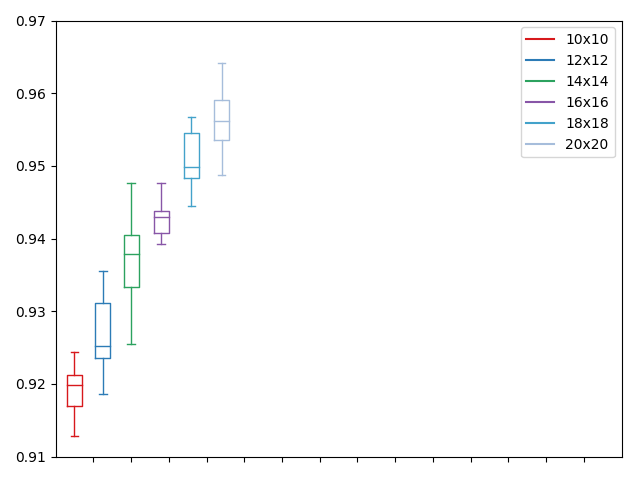
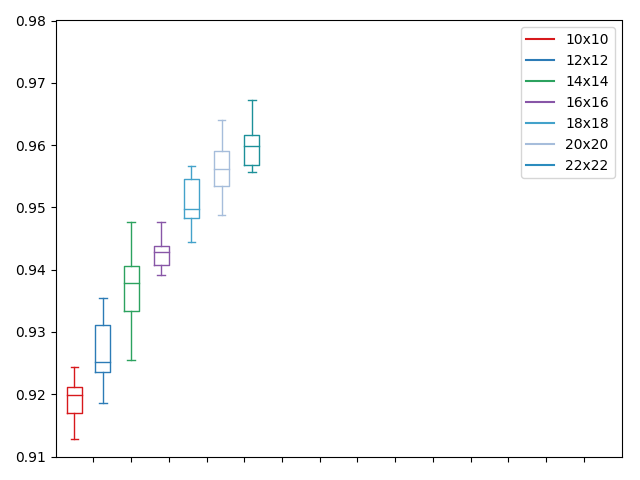
Finish 22x22

diff --git a/Projeto/plot/GridSize/Accuracy/accuracyPlotData.py b/Projeto/plot/GridSize/Accuracy/accuracyPlotData.py
@@ -7,7 +7,7 @@ data_c = [[0.9387,0.9371,0.9408,0.9329,0.9397,0.9345,0.9292,0.9477,0.9434,0.9255
 data_d = [[0.9397,0.9403,0.9392,0.9477,0.9434,0.9424,0.9487,0.9434,0.9424,0.944]]
 data_e = [[0.9445,0.9556,0.9514,0.9567,0.9503,0.9493,0.9482,0.9477,0.9641,0.9487]]
 data_f = [[0.9641,0.9567,0.9582,0.9593,0.9535, 0.9487,0.9556,0.9619,0.9535,0.953]]
-#data_g = [[1,2,5]]
+data_g = [[0.9561,0.9619,0.9625,0.9672,0.9609,0.9567,0.9556,0.9598,0.9598,0.9572]]
 #data_h = [[6,4,2]]
 #data_i = [[5,4,1]]
 #data_j = [[4,5,3]]
@@ -33,7 +33,7 @@ bps = plt.boxplot(data_c, positions=np.array(range(len(data_c)))*2.0+2.0, sym=''
 bpt = plt.boxplot(data_d, positions=np.array(range(len(data_d)))*2.0+3.6, sym='', widths=0.8)
 bpu = plt.boxplot(data_e, positions=np.array(range(len(data_e)))*2.0+5.2, sym='', widths=0.8)
 bpv = plt.boxplot(data_f, positions=np.array(range(len(data_f)))*2.0+6.8 , sym='', widths=0.8)
-#bpx = plt.boxplot(data_g, positions=np.array(range(len(data_g)))*2.0+8.4, sym='', widths=0.8)
+bpx = plt.boxplot(data_g, positions=np.array(range(len(data_g)))*2.0+8.4, sym='', widths=0.8)
 #bpw = plt.boxplot(data_h, positions=np.array(range(len(data_h)))*2.0+10.0, sym='', widths=0.8)
 #bpy = plt.boxplot(data_i, positions=np.array(range(len(data_i)))*2.0+11.6, sym='', widths=0.8)
 #bpz = plt.boxplot(data_j, positions=np.array(range(len(data_j)))*2.0+13.2, sym='', widths=0.8)
@@ -49,7 +49,7 @@ set_box_color(bps, '#2ca25f')
 set_box_color(bpt, '#8856a7')
 set_box_color(bpu, '#43a2ca')
 set_box_color(bpv, '#a6bddb')
-#set_box_color(bpx, '#1c9099')
+set_box_color(bpx, '#1c9099')
 #set_box_color(bpw, '#dd1c77')
 #set_box_color(bpy, '#addd8e')
 #set_box_color(bpz, '#99d8c9')
@@ -66,7 +66,7 @@ plt.plot([], c='#2ca25f', label='14x14')
 plt.plot([], c='#8856a7', label='16x16')
 plt.plot([], c='#43a2ca', label='18x18')
 plt.plot([], c='#a6bddb', label='20x20')
-#plt.plot([], c='#2b8cbe', label='ABC7')
+plt.plot([], c='#2b8cbe', label='22x22')
 #plt.plot([], c='#1c9099', label='ABC8')
 #plt.plot([], c='#dd1c77', label='ABC9')
 #plt.plot([], c='#addd8e', label='ABC10')
@@ -79,6 +79,6 @@ plt.legend()
 
 plt.xticks(range(0, len(ticks) * 2, 2), ticks)
 plt.xlim(-2, len(ticks)*2)
-plt.ylim(0.91, 0.97)
+plt.ylim(0.91, 0.98)
 plt.tight_layout()
 plt.savefig('boxcompare.png')

diff --git a/Projeto/plot/GridSize/Errors/errorPlotData.py b/Projeto/plot/GridSize/Errors/errorPlotData.py
@@ -7,7 +7,7 @@ data_c = [[18,16,17,18,19,21,18,21,21,22]]
 data_d = [[20,23,20,19,19,24,18,17,18,19]]
 data_e = [[21,16,19,17,18,16,18,17,14,18]]
 data_f = [[16,18,16,15,19,18,19,16,14,18]]
-#data_g = [[1,2,5]]
+data_g = [[21,15,17,14,15,15,19,19,17,18]]
 #data_h = [[6,4,2]]
 #data_i = [[5,4,1]]
 #data_j = [[4,5,3]]
@@ -33,7 +33,7 @@ bps = plt.boxplot(data_c, positions=np.array(range(len(data_c)))*2.0+2.0, sym=''
 bpt = plt.boxplot(data_d, positions=np.array(range(len(data_d)))*2.0+3.6, sym='', widths=0.8)
 bpu = plt.boxplot(data_e, positions=np.array(range(len(data_e)))*2.0+5.2, sym='', widths=0.8)
 bpv = plt.boxplot(data_f, positions=np.array(range(len(data_f)))*2.0+6.8 , sym='', widths=0.8)
-#bpx = plt.boxplot(data_g, positions=np.array(range(len(data_g)))*2.0+8.4, sym='', widths=0.8)
+bpx = plt.boxplot(data_g, positions=np.array(range(len(data_g)))*2.0+8.4, sym='', widths=0.8)
 #bpw = plt.boxplot(data_h, positions=np.array(range(len(data_h)))*2.0+10.0, sym='', widths=0.8)
 #bpy = plt.boxplot(data_i, positions=np.array(range(len(data_i)))*2.0+11.6, sym='', widths=0.8)
 #bpz = plt.boxplot(data_j, positions=np.array(range(len(data_j)))*2.0+13.2, sym='', widths=0.8)
@@ -49,7 +49,7 @@ set_box_color(bps, '#2ca25f')
 set_box_color(bpt, '#8856a7')
 set_box_color(bpu, '#43a2ca')
 set_box_color(bpv, '#a6bddb')
-#set_box_color(bpx, '#1c9099')
+set_box_color(bpx, '#1c9099')
 #set_box_color(bpw, '#dd1c77')
 #set_box_color(bpy, '#addd8e')
 #set_box_color(bpz, '#99d8c9')
@@ -66,7 +66,7 @@ plt.plot([], c='#2ca25f', label='14x14')
 plt.plot([], c='#8856a7', label='16x16')
 plt.plot([], c='#43a2ca', label='18x18')
 plt.plot([], c='#a6bddb', label='20x20')
-#plt.plot([], c='#2b8cbe', label='ABC7')
+plt.plot([], c='#2b8cbe', label='22x22')
 #plt.plot([], c='#1c9099', label='ABC8')
 #plt.plot([], c='#dd1c77', label='ABC9')
 #plt.plot([], c='#addd8e', label='ABC10')
